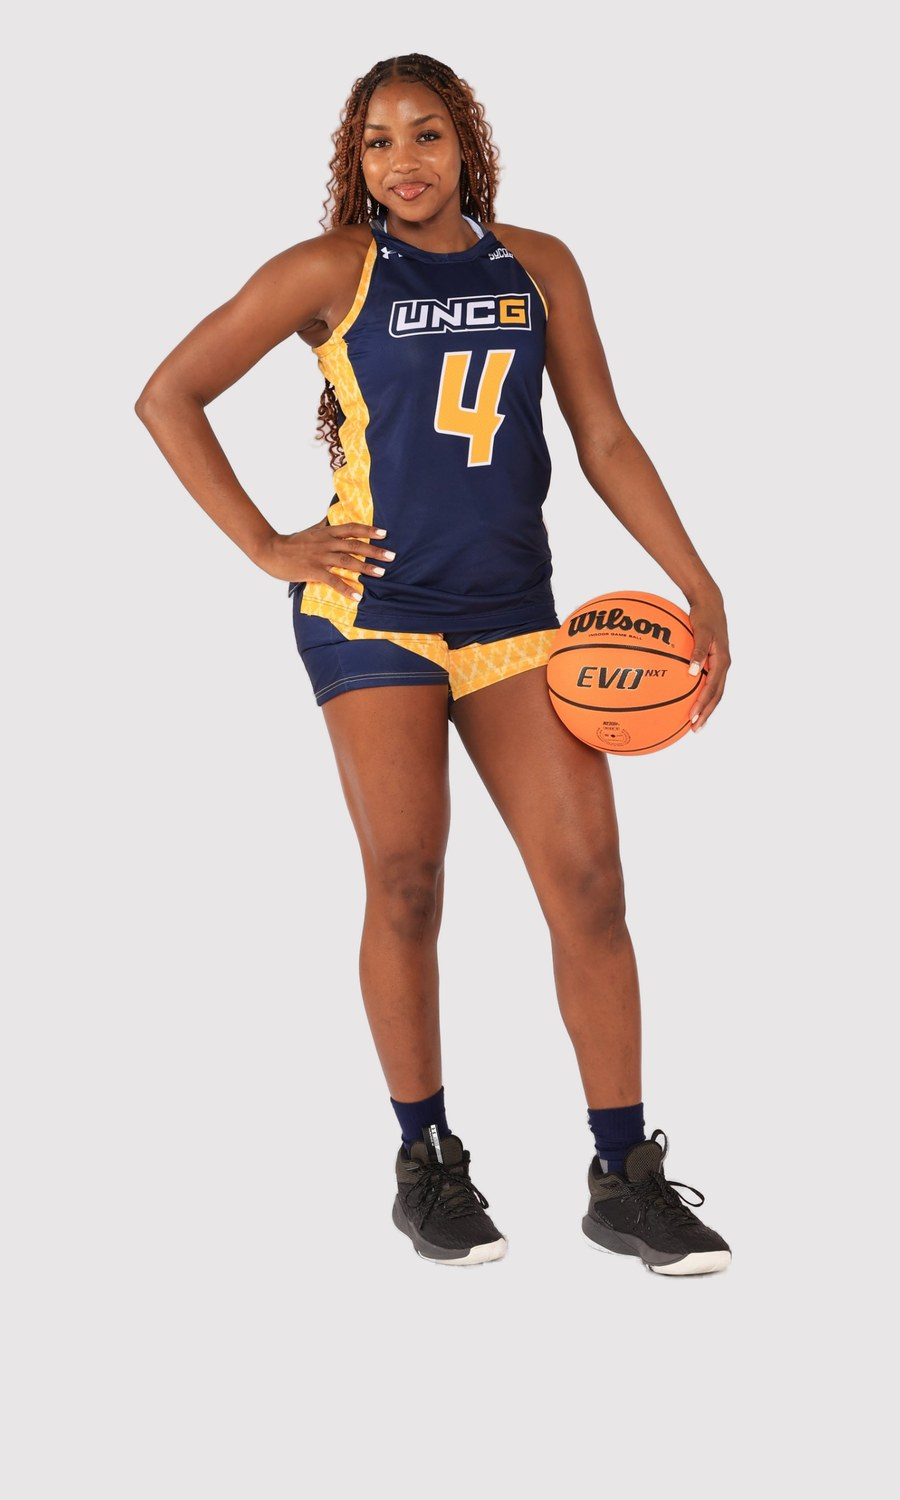
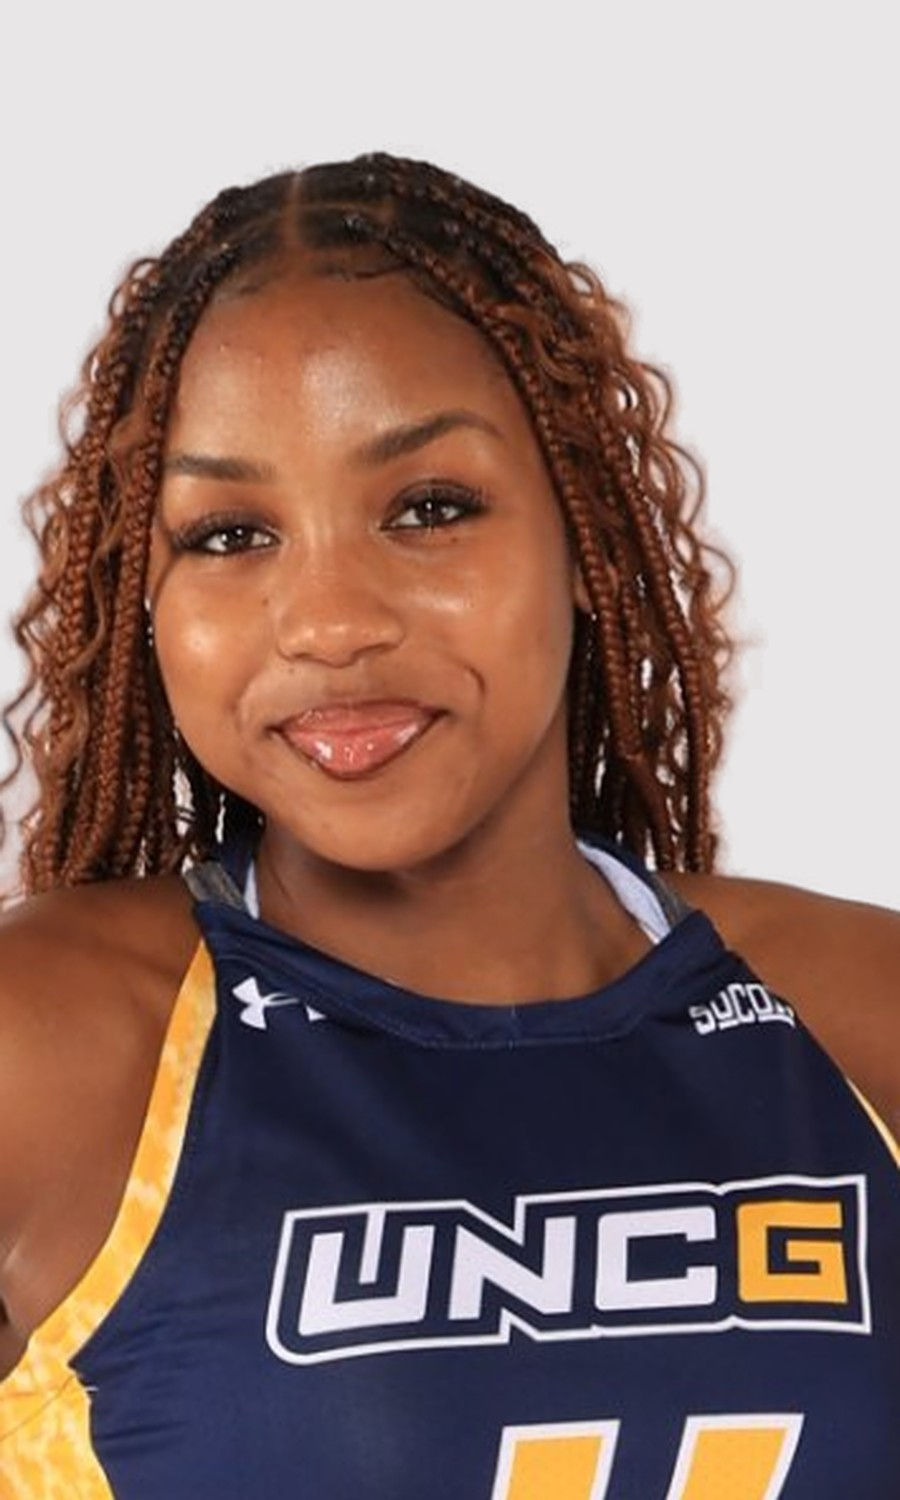
About page: head-and-shoulders crop for Coach Jaila to match other coaches
Claude-Session: https://claude.ai/code/session_012KRnHYw8MwYmdU7eEJSQb6

diff --git a/about.html b/about.html
@@ -434,7 +434,7 @@ src="https://www.facebook.com/tr?id=846020845059569&ev=PageView&noscript=1"
       <div class="coach-card coach-card--5">
         <div class="coach-card-frame">
           <div class="coach-card-photo photo">
-            <img src="images/coach-jaila-lee.jpg?v=4" alt="Jaila Lee, Basketball Coach at The Courts" width="900" height="1500" loading="lazy" decoding="async">
+            <img src="images/coach-jaila-lee.jpg?v=5" alt="Jaila Lee, Basketball Coach at The Courts" width="900" height="1500" loading="lazy" decoding="async">
             <span class="coach-card-corner"></span>
           </div>
           <div class="coach-card-body">
